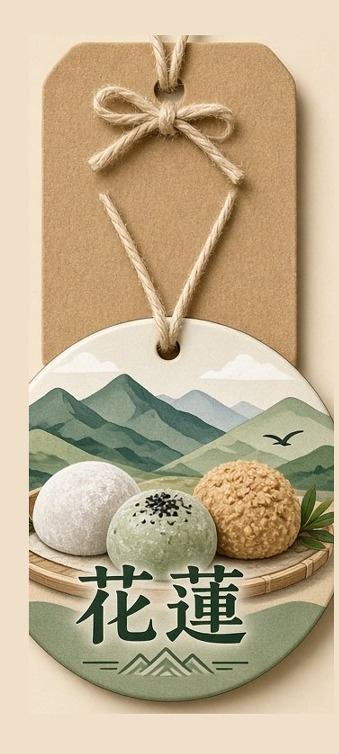
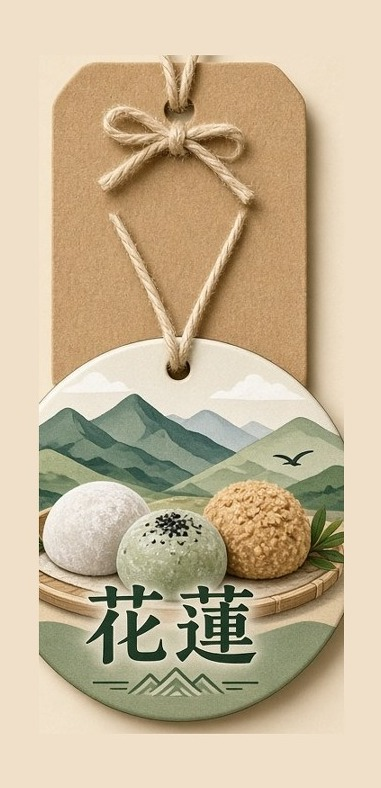
fix: 花蓮徽章縮小並完整置中 (v2.26.11)
徽章不再撐成直長框，圓牌左右留白，整件都看得到。尺寸靠近御守和車票，說明仍在下方。快取 tripmate-v84。

diff --git a/index.html b/index.html
@@ -549,8 +549,11 @@ html.dark .sovhit{background:#1c2530;box-shadow:none;border:1px solid var(--line
 .ema-foot{display:flex;flex-direction:column;align-items:center;gap:6px;margin-top:10px}
 .ema-pill{display:inline-flex;align-items:center;justify-content:center;min-width:88px;padding:6px 14px;border:1.5px solid #c4b49a;border-radius:999px;background:#fbf7f0;color:#6e5344;font-size:14px;font-weight:800;letter-spacing:.12em}
 .ema-land{display:block;margin-top:6px;color:#8a7564;font-weight:800;font-size:12px;text-align:center}
-.sov-lg.sov-stamp,.sov-lg.sov-badge{width:min(340px,100%);margin:0 auto}
-.sov-lg.sov-charm,.sov-lg.sov-plaque{width:min(280px,100%);margin:0 auto}
+.sov-lg.sov-stamp{width:min(340px,100%);margin:0 auto}
+.sov-lg.sov-badge,.sov-lg.sov-charm,.sov-lg.sov-plaque{width:min(280px,100%);margin:0 auto}
+.sov-badge .post-print{width:auto;max-width:100%;margin:0 auto}
+.sov-lg.sov-badge .postimg{width:auto;max-width:100%;max-height:400px;margin:0 auto}
+.sov-mini.sov-badge .postimg{width:auto;max-width:100%;max-height:300px;margin:0 auto}
 .sov-lg .badge-title{font-size:26px}
 .sov-lg .charmart{width:min(210px,86%)}
 .sov-lg .emaart{width:min(230px,92%)}
@@ -1312,7 +1315,7 @@ addEventListener('load',()=>(window.requestIdleCallback||setTimeout)(()=>setTime
 let impP=null;function openImport(){return (impP||(impP=new Promise((ok,no)=>{const e=document.createElement('script');e.src='importer.js';e.onload=ok;e.onerror=()=>{impP=null;no()};document.head.append(e)}))).then(()=>importSheet()).catch(()=>toast('載入失敗，請稍後再試'))}
 function ticketTodayCount(t){if(!t||typeof Tickets==='undefined'||!Tickets.isToday)return 0;const today=Tickets.todayYmd();return (t.tickets||[]).filter(x=>!x.used&&Tickets.isToday(x,t,today)).length}
 function render(){const on=k=>k===tab||(k==='list'&&(tab==='edit'||tab==='new'));const nToday=ticketTodayCount(T());$('#nav').innerHTML=TABS.map(([k,n])=>{const badge=k==='expense'&&nToday?`<b class="nb">${nToday>99?'99+':nToday}</b>`:'';const label=k==='expense'&&nToday?` aria-label="支出與票券，今天 ${nToday} 張"`:'';const wide=n.length>2?' wide':'';return `<button class="${on(k)?'on':''}${wide}" onclick="go('${k}')"${label}><span class="nic">${badge}<svg viewBox="0 0 24 24">${TI[k]}</svg></span>${n}</button>`}).join('');$('#app').innerHTML=V[tab]()+foot();if(tab==='edit'){bindDays();bindSort();const tt=T();if(tt)wxLoad(tt);if(typeof fillLive==='function')fillLive();maybeAutoShift()}if(tab==='deals'||tab==='edit')loadDeals();if(tab==='expense'&&expPane!=='tix'&&typeof paintExp==='function')paintExp();if(tab==='food'&&typeof paintFood==='function')paintFood();if(tab==='more'&&typeof paintAccount==='function')paintAccount();if(tab==='more'&&typeof paintBackupHint==='function')paintBackupHint();xswLinks();if(window.Journey)Journey.afterPaint()}
-const foot=()=>{const t=T(),fly=t?flyUrl(t):`${BASE}flysave/?from=trip`,fan=t?fanUrl(t):`${BASE}fansave/?from=trip`;return `<footer><div class="fb"><a class="cb" href="${SPONSOR_URL}" target="_blank" rel="noopener"><img src="icons/coffee-trip.svg" alt="" width="40" height="40">贊助</a><a class="cb" href="#" onclick="shareSite();return false"><img src="icons/share-trip.svg" alt="" width="40" height="40">分享</a></div><div class="fl"><a href="#" onclick="info('about');return false">關於我們</a><i>|</i><a href="#" onclick="info('privacy');return false">隱私權政策</a><i>|</i><a href="#" onclick="info('terms');return false">服務條款</a></div><div class="fs"><a class="sfly" id="sfly" href="${fly}"><img src="icons/fly-fly.svg" alt="" width="24" height="24">飛省 查機票</a><a class="sfan" id="sfan" href="${fan}"><img src="icons/hotel-fan.svg" alt="" width="24" height="24">飯省 找飯店</a></div><div class="vw" id="vw"${VW?``:` hidden`}>${VW?`👀 累計瀏覽 ${VW.toLocaleString()}`:``}</div><div class="copy">© 2026 旅伴 TripMate・推薦景點資料截至 2026-10-19・v2.26.10</div></footer>`};
+const foot=()=>{const t=T(),fly=t?flyUrl(t):`${BASE}flysave/?from=trip`,fan=t?fanUrl(t):`${BASE}fansave/?from=trip`;return `<footer><div class="fb"><a class="cb" href="${SPONSOR_URL}" target="_blank" rel="noopener"><img src="icons/coffee-trip.svg" alt="" width="40" height="40">贊助</a><a class="cb" href="#" onclick="shareSite();return false"><img src="icons/share-trip.svg" alt="" width="40" height="40">分享</a></div><div class="fl"><a href="#" onclick="info('about');return false">關於我們</a><i>|</i><a href="#" onclick="info('privacy');return false">隱私權政策</a><i>|</i><a href="#" onclick="info('terms');return false">服務條款</a></div><div class="fs"><a class="sfly" id="sfly" href="${fly}"><img src="icons/fly-fly.svg" alt="" width="24" height="24">飛省 查機票</a><a class="sfan" id="sfan" href="${fan}"><img src="icons/hotel-fan.svg" alt="" width="24" height="24">飯省 找飯店</a></div><div class="vw" id="vw"${VW?``:` hidden`}>${VW?`👀 累計瀏覽 ${VW.toLocaleString()}`:``}</div><div class="copy">© 2026 旅伴 TripMate・推薦景點資料截至 2026-10-19・v2.26.11</div></footer>`};
 const V={
 list:()=>{const card=t=>`<div class="card${t.archived?' shelf':''}" onclick="cur='${t.id}';dayIx=0;save();go('edit')" style="cursor:pointer"><div class="row"><div>${ui('suitcase')}<b>${esc(t.dest)}</b> <span class="mut">${esc(t.dep)} → ${esc(t.ret)} · ${esc(t.pax)} 人</span></div><span style="flex:0" onclick="event.stopPropagation()">${ib('del',`delTrip('${t.id}')`,'刪除')}</span></div><div class="mut">${t.archived?'已封存 · ':''}${(t.days||[]).flat().length} 個景點</div></div>`;const live=trips.filter(t=>!t.archived),arch=trips.filter(t=>t.archived);const head=`<div class="row" style="justify-content:space-between;align-items:center"><h2 style="margin:0">我的行程</h2><button class="btn sm" style="flex:0" onclick="go('new')">＋ 新增行程</button></div><div class="row" style="margin:8px 0"><button class="btn ghost sm" style="flex:0" onclick="openImport()">匯入行程</button></div>`;const liveHtml=live.length?live.map(card).join(''):(arch.length?`<div class="card"><p>沒有進行中的行程。</p><button class="btn" onclick="go('new')">建立新行程</button></div>`:`<div class="card"><p>還沒有行程。</p><button class="btn" onclick="go('new')">建立第一個行程</button></div>`);const been=window.Journey?`<button type="button" class="vmap-entry" onclick="Journey.openVisitMap()"><span class="vmap-ico" aria-hidden="true"><svg viewBox="0 0 24 24"><path d="M4 6l6-2 4 2 6-2v14l-6 2-4-2-6 2z"/><path d="M10 4v14M14 6v14"/></svg></span><span><b>去過的地方</b><small>${esc(Journey.visitBrief())}</small></span></button>`:'';const keeps=window.Journey&&Journey.shelfHtml?Journey.shelfHtml(arch):(arch.length?`<h3 class="shelfhead">封存</h3>${arch.map(card).join('')}`:'');return head+been+liveHtml+keeps},
 new:()=>{let d=new Date(Date.now()+14*864e5).toISOString().slice(0,10),r=new Date(Date.now()+18*864e5).toISOString().slice(0,10);const ok=x=>x&&/^\d{4}-\d\d-\d\d$/.test(x)&&x>=new Date().toISOString().slice(0,10);if(PF){if(ok(PF.dep))d=PF.dep;if(ok(PF.ret)&&PF.ret>=d)r=PF.ret;else if(ok(PF.dep)){const x=new Date(d);x.setDate(x.getDate()+3);r=x.toISOString().slice(0,10)}}

diff --git a/sw.js b/sw.js
@@ -1,4 +1,4 @@
-const C='tripmate-v83',A=['./','index.html','manifest.json','planner.js','placeq.js','placeurl.js','legs.js','journey.js','extras.js','food.js','fx.js','share.js','tickets.js','notify.js','visitgeo.js','spotlore.js','vendor/lz-string.min.js','sync.js','collab.js','live.js','importer.js','urlimport.js','data/local-food.json','icons/icon.svg','icons/icon-192.png','icons/ui-spot.svg','icons/ui-fly.svg','icons/ui-hotel.svg','icons/ui-suitcase.svg','icons/coffee-trip.svg','icons/share-trip.svg','icons/fly-fly.svg','icons/hotel-fan.svg','icons/cat-food.svg','icons/cat-sightseeing.svg','icons/cat-shopping.svg','icons/cat-hotel.svg','icons/cat-transport.svg','icons/cat-cafe.svg','icons/cat-nature.svg','icons/cat-museum.svg','icons/cat-nightlife.svg','icons/cat-custom.svg','assets/keepsakes/pass-0.webp','assets/keepsakes/pass-1.webp','assets/keepsakes/pass-2.webp','assets/keepsakes/pass-3.webp','assets/keepsakes/pass-4.webp','assets/keepsakes/charm-0.webp','assets/keepsakes/charm-1.webp','assets/keepsakes/charm-2.webp','assets/keepsakes/charm-3.webp','assets/keepsakes/charm-4.webp','assets/keepsakes/pack-0.webp','assets/keepsakes/pack-1.webp','assets/keepsakes/pack-2.webp','assets/keepsakes/pack-3.webp','assets/keepsakes/pack-4.webp','assets/keepsakes/stamp-0.webp','assets/keepsakes/stamp-1.webp','assets/keepsakes/stamp-2.webp','assets/keepsakes/stamp-3.webp','assets/keepsakes/stamp-4.webp','assets/keepsakes/post-gorge.jpg','assets/keepsakes/post-gorge-stamp.png','assets/keepsakes/post-gorge-cancel.png','assets/keepsakes/post-skytree.jpg','assets/keepsakes/post-skytree-stamp.png','assets/keepsakes/post-skytree-cancel.png','assets/keepsakes/charm-hul.jpg','assets/keepsakes/charm-tyo.jpg','assets/keepsakes/stamp-hul.jpg','assets/keepsakes/stamp-tyo.jpg','assets/keepsakes/pass-hul.jpg','assets/keepsakes/pack-hul.jpg','assets/keepsakes/badge-hul.jpg','assets/keepsakes/ema-hul.jpg','assets/keepsakes/card-0.webp','assets/keepsakes/card-1.webp','assets/keepsakes/card-2.webp','assets/keepsakes/card-3.webp','assets/keepsakes/card-4.webp','assets/keepsakes/badge-0.webp','assets/keepsakes/badge-1.webp','assets/keepsakes/badge-2.webp','assets/keepsakes/badge-3.webp','assets/keepsakes/badge-4.webp','assets/keepsakes/ema-0.webp','assets/keepsakes/ema-1.webp','assets/keepsakes/ema-2.webp','assets/keepsakes/ema-3.webp','assets/keepsakes/ema-4.webp'];
+const C='tripmate-v84',A=['./','index.html','manifest.json','planner.js','placeq.js','placeurl.js','legs.js','journey.js','extras.js','food.js','fx.js','share.js','tickets.js','notify.js','visitgeo.js','spotlore.js','vendor/lz-string.min.js','sync.js','collab.js','live.js','importer.js','urlimport.js','data/local-food.json','icons/icon.svg','icons/icon-192.png','icons/ui-spot.svg','icons/ui-fly.svg','icons/ui-hotel.svg','icons/ui-suitcase.svg','icons/coffee-trip.svg','icons/share-trip.svg','icons/fly-fly.svg','icons/hotel-fan.svg','icons/cat-food.svg','icons/cat-sightseeing.svg','icons/cat-shopping.svg','icons/cat-hotel.svg','icons/cat-transport.svg','icons/cat-cafe.svg','icons/cat-nature.svg','icons/cat-museum.svg','icons/cat-nightlife.svg','icons/cat-custom.svg','assets/keepsakes/pass-0.webp','assets/keepsakes/pass-1.webp','assets/keepsakes/pass-2.webp','assets/keepsakes/pass-3.webp','assets/keepsakes/pass-4.webp','assets/keepsakes/charm-0.webp','assets/keepsakes/charm-1.webp','assets/keepsakes/charm-2.webp','assets/keepsakes/charm-3.webp','assets/keepsakes/charm-4.webp','assets/keepsakes/pack-0.webp','assets/keepsakes/pack-1.webp','assets/keepsakes/pack-2.webp','assets/keepsakes/pack-3.webp','assets/keepsakes/pack-4.webp','assets/keepsakes/stamp-0.webp','assets/keepsakes/stamp-1.webp','assets/keepsakes/stamp-2.webp','assets/keepsakes/stamp-3.webp','assets/keepsakes/stamp-4.webp','assets/keepsakes/post-gorge.jpg','assets/keepsakes/post-gorge-stamp.png','assets/keepsakes/post-gorge-cancel.png','assets/keepsakes/post-skytree.jpg','assets/keepsakes/post-skytree-stamp.png','assets/keepsakes/post-skytree-cancel.png','assets/keepsakes/charm-hul.jpg','assets/keepsakes/charm-tyo.jpg','assets/keepsakes/stamp-hul.jpg','assets/keepsakes/stamp-tyo.jpg','assets/keepsakes/pass-hul.jpg','assets/keepsakes/pack-hul.jpg','assets/keepsakes/badge-hul.jpg','assets/keepsakes/ema-hul.jpg','assets/keepsakes/card-0.webp','assets/keepsakes/card-1.webp','assets/keepsakes/card-2.webp','assets/keepsakes/card-3.webp','assets/keepsakes/card-4.webp','assets/keepsakes/badge-0.webp','assets/keepsakes/badge-1.webp','assets/keepsakes/badge-2.webp','assets/keepsakes/badge-3.webp','assets/keepsakes/badge-4.webp','assets/keepsakes/ema-0.webp','assets/keepsakes/ema-1.webp','assets/keepsakes/ema-2.webp','assets/keepsakes/ema-3.webp','assets/keepsakes/ema-4.webp'];
 // 繞過 GitHub Pages 的 max-age，避免新快取被 HTTP 快取塞進舊的 index.html
 async function putFresh(cache,url){
   const res=await fetch(new Request(url,{cache:'reload'}));
